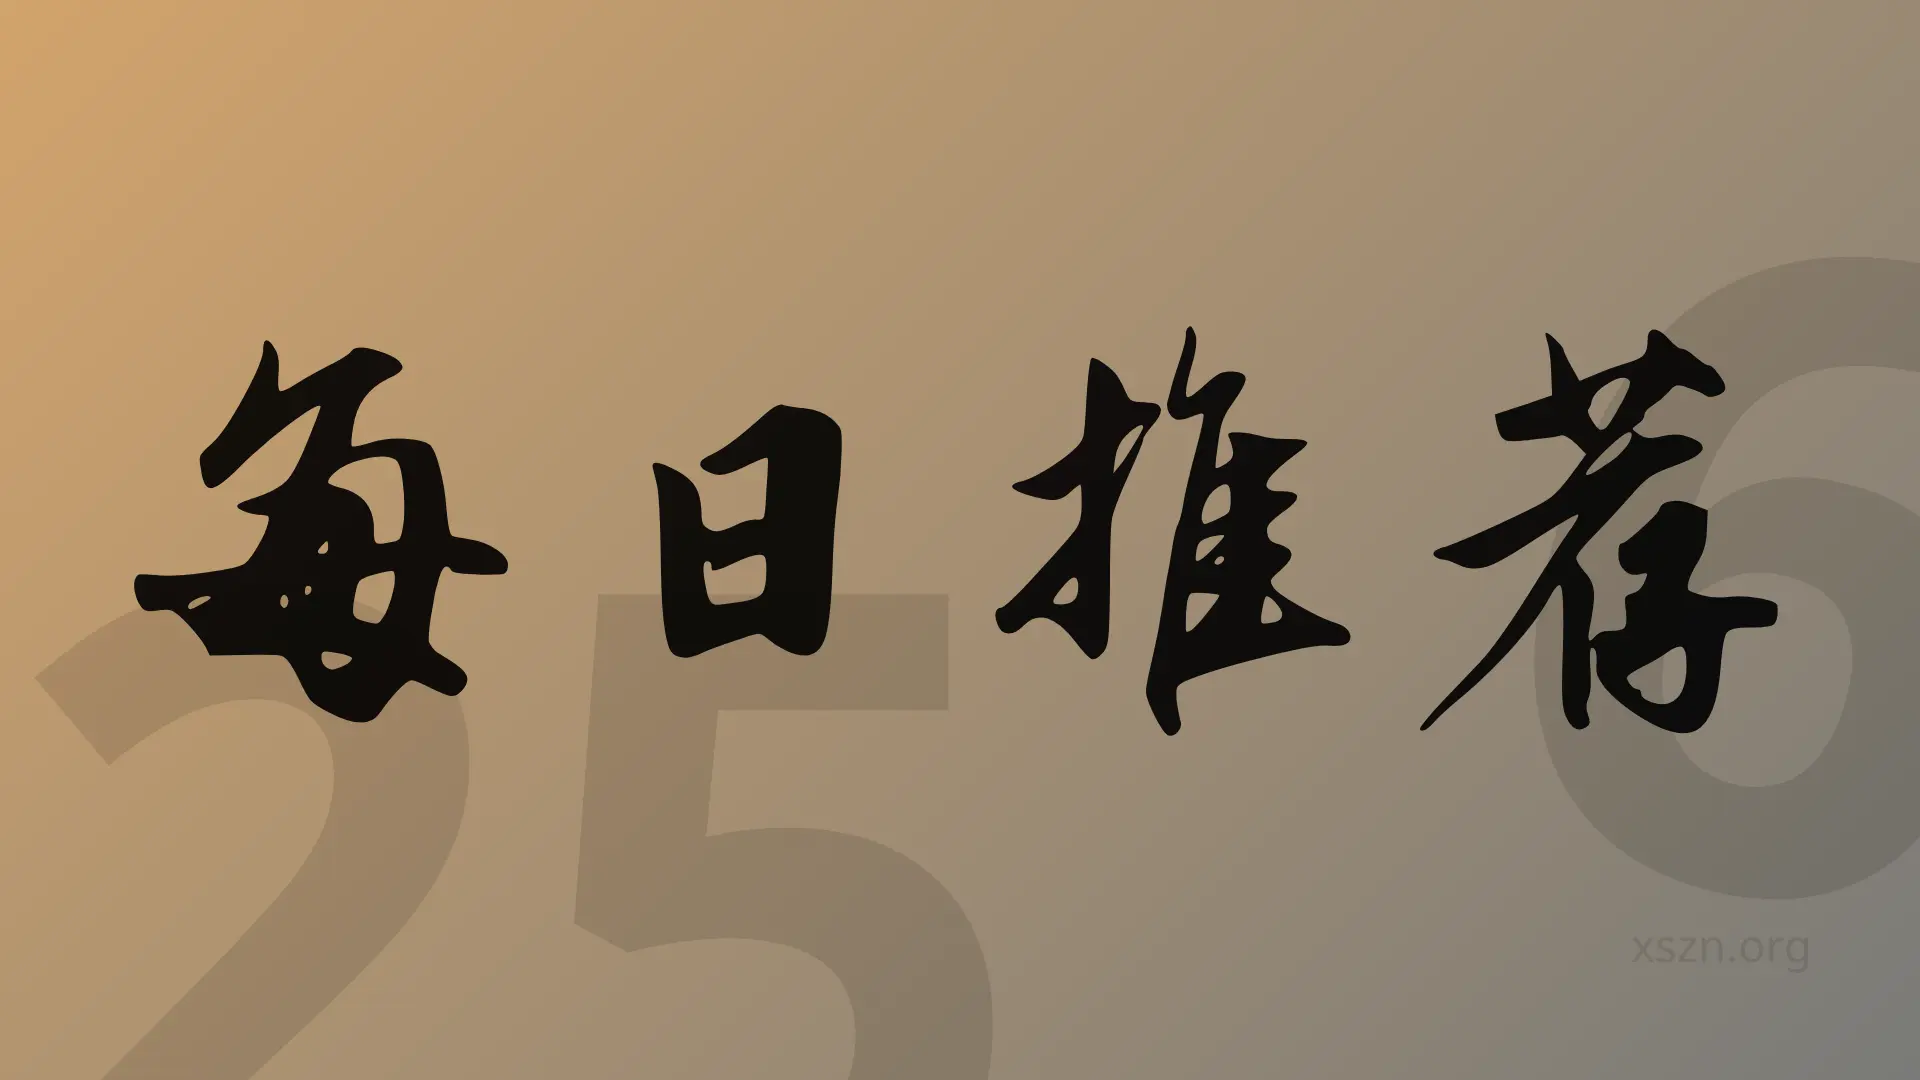
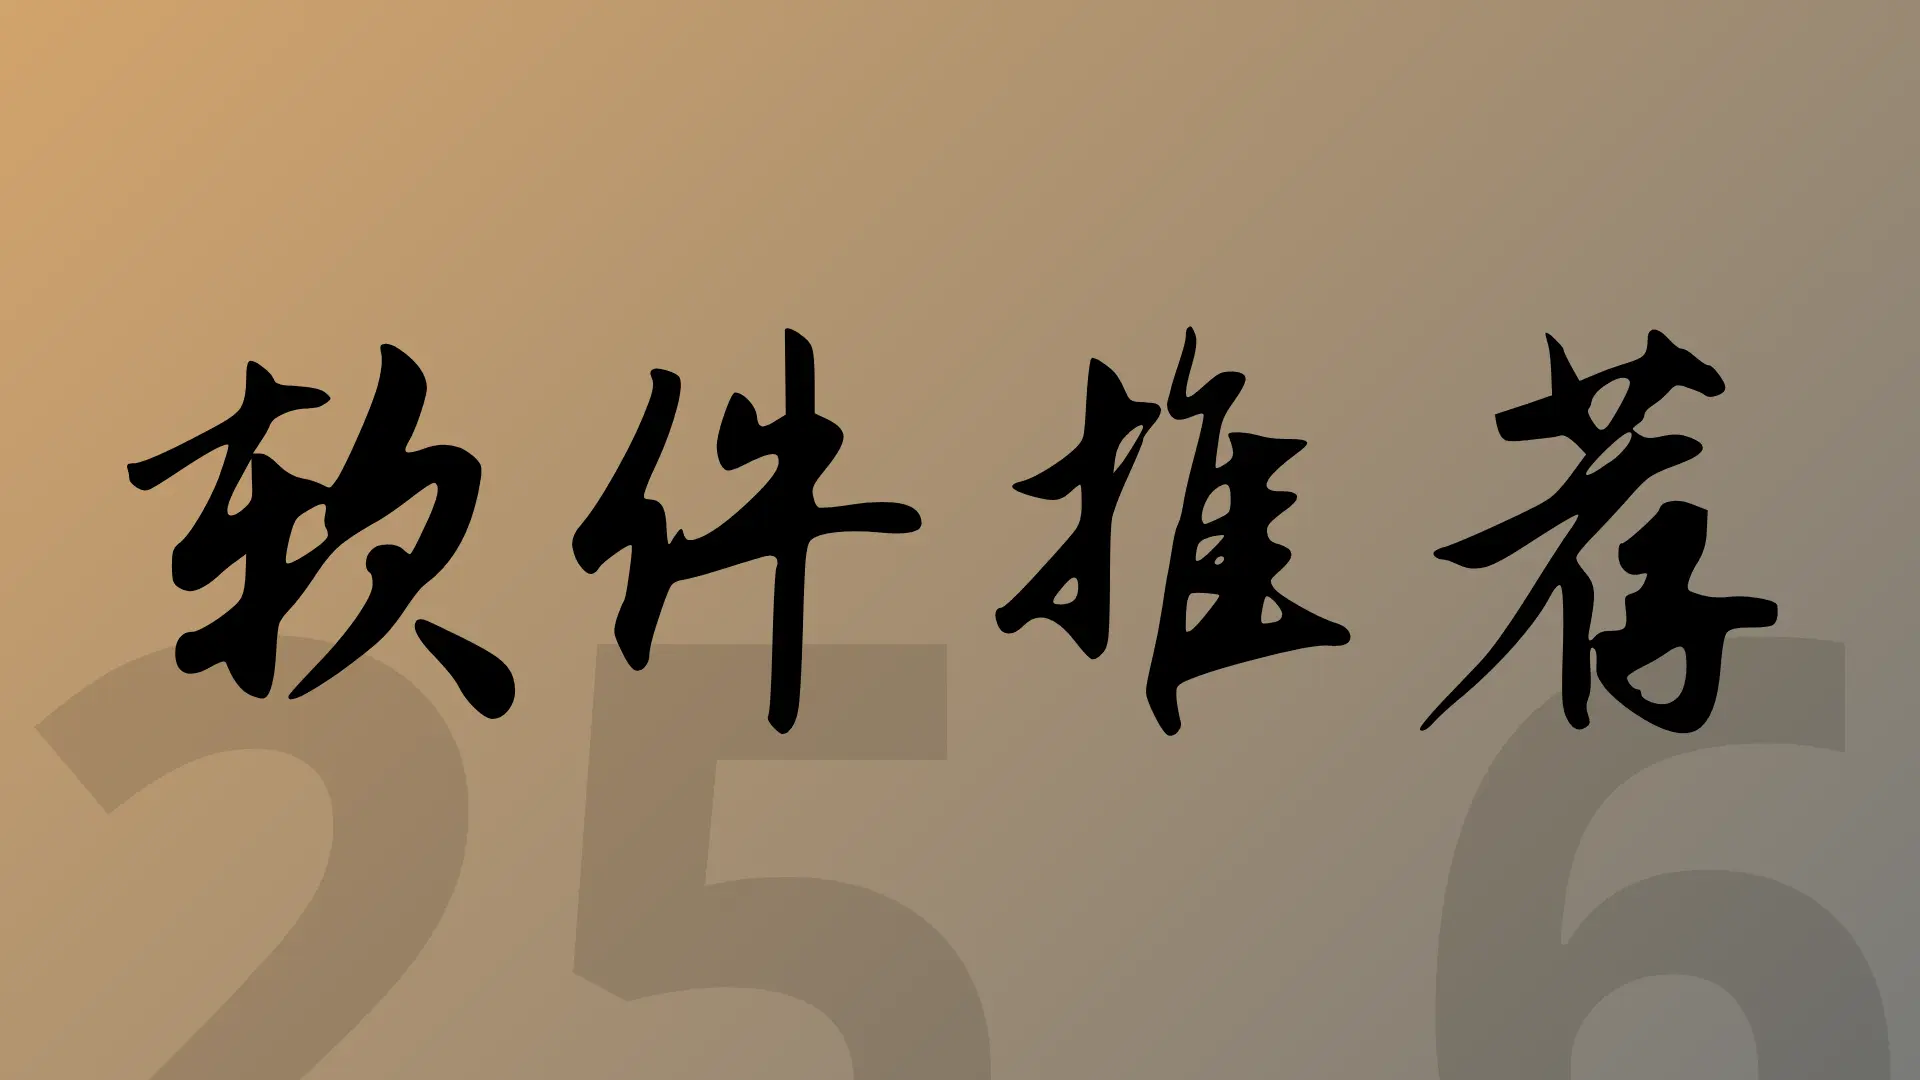
Add new content

Changed region(s): [[0.0625, 0.3056, 0.5, 0.6722]]

diff --git a/src/content/about/-index.md b/src/content/about/-index.md
@@ -13,16 +13,16 @@ what_i_do:
     description: "直观易懂。原创影片创作"
 ---
 
-XSZN.org 是一个软件资源分享网站。最新热门开源软件推荐，浅显易懂的使用教程。在这里发现与掌握前沿技术。
+XSZN.org 是一个软件资源分享网站。推荐最新、热门的开源软件，阅读高质量期刊，着手浅显易懂的使用教程。在这里一起发现与掌握前沿技术。
 
-**每日推荐**
+**软件推荐**
 
-每天一款软件，发现你的创作与工作。
+每天一款软件，发现你的创作与工作。每天 9:00 更新。
 
-~~**推荐周刊**~~
+**科技周刊**（未创刊）
 
-~~本周软件精选，值得记忆的推荐合集。~~
+本周科技热点，值得记忆的推荐合集。每周一 17:00 更新。
 
 **使用教程**
 
-配全流程教学，快速掌握从这里开始。
+配全流程教学，快速掌握从这里开始。不定期更新。
